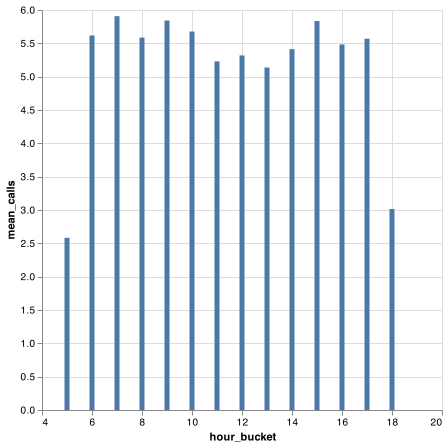
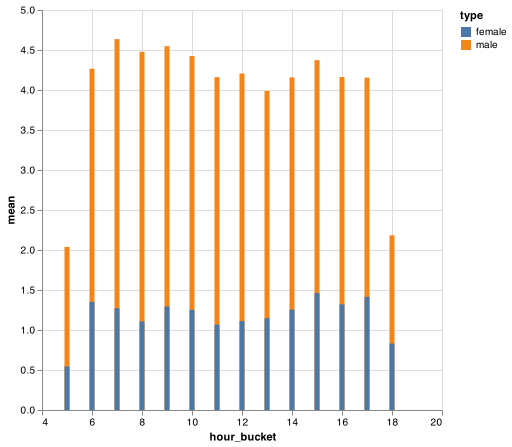
new graphs with male female split

diff --git a/statistics/index.html b/statistics/index.html
@@ -30,7 +30,7 @@
 
 <!-- Content appended here -->
 <div class="franklin-content"><h1 id="aggregate_statistics"><a href="#aggregate_statistics" class="header-anchor">Aggregate Statistics</a></h1>
-<div class="franklin-toc"><ol><li><a href="#aggregate_statistics">Aggregate Statistics</a><ol><li><a href="#audio_recorded">Audio Recorded</a></li><li><a href="#kiwi_calls_found">Kiwi Calls Found</a></li><li><a href="#calls_per_hour">Calls per Hour</a><ol><li><a href="#aggregate_dataset">Aggregate Dataset</a></li><li><a href="#by_time_of_day">By Time of Day</a></li><li><a href="#by_month">By Month</a></li></ol></li><li><a href="#calls_by_location">Calls by Location</a></li></ol></li></ol></div>
+<div class="franklin-toc"><ol><li><a href="#aggregate_statistics">Aggregate Statistics</a><ol><li><a href="#audio_recorded">Audio Recorded</a></li><li><a href="#kiwi_calls_found">Kiwi Calls Found</a></li><li><a href="#calls_by_location">Calls by Location</a></li></ol></li><li><a href="#calls_per_hour">Calls per Hour</a><ol><li><a href="#aggregate_dataset">Aggregate Dataset</a></li><li><a href="#distribution">Distribution</a></li><li><a href="#by_time_of_day">By Time of Day</a></li><li><a href="#by_month">By Month</a></li></ol></li></ol></div>
 <h2 id="audio_recorded"><a href="#audio_recorded" class="header-anchor">Audio Recorded</a></h2>
 
 <table><tr><th align="right">Drive</th><th align="right">SizeTB</th><th align="right">Files</th><th align="right">Hours</th><th align="right">From</th><th align="right">To</th></tr><tr><td align="right">Pomona-1</td><td align="right">2.94</td><td align="right">104839</td><td align="right">26057.2</td><td align="right">28/10/2021</td><td align="right">30/07/2022</td></tr><tr><td align="right">Pomona-2</td><td align="right">2.46</td><td align="right">87741</td><td align="right">21811.2</td><td align="right">26/08/2022</td><td align="right">17/02/2023</td></tr></table>
@@ -39,25 +39,26 @@
 
 <table><tr><th align="right">Call Type</th><th align="right">Number</th></tr><tr><td align="right">Solo Male</td><td align="right">13884</td></tr><tr><td align="right">Solo Female</td><td align="right">2530</td></tr><tr><td align="right">Duets</td><td align="right">2123</td></tr><tr><td align="right">Individual</td><td align="right">20660</td></tr></table>
 
-<h2 id="calls_per_hour"><a href="#calls_per_hour" class="header-anchor">Calls per Hour</a></h2>
-
-<h3 id="aggregate_dataset"><a href="#aggregate_dataset" class="header-anchor">Aggregate Dataset</a></h3>
-<pre><code class="plaintext code-output">Mean: 5.36
-</code></pre>
-<p><img src="/assets/statistics/calls_per_hour_aggregate.png" alt="Calls per Hour" /></p>
-<table><tr><th align="right">variable</th><th align="right">mean</th><th align="right">min</th><th align="right">median</th><th align="right">max</th></tr><tr><td align="right">calls</td><td align="right">5.362055541136777</td><td align="right">0</td><td align="right">4.0</td><td align="right">29</td></tr><tr><td align="right">hour_bucket</td><td align="right">0.0</td><td align="right">2021-10-28T07:00:00.0</td><td align="right">2022-07-07T15:00:00.0</td><td align="right">2023-02-16T12:00:00.0</td></tr></table>
-
-<p><img src="/assets/statistics/calls_per_hour_frequency.png" alt="Calls per Hour" /></p>
-<h3 id="by_time_of_day"><a href="#by_time_of_day" class="header-anchor">By Time of Day</a></h3>
-<p>Hour is UTC, to get to NZ time add 12 or 13 hours. I need to work in UTC because turning the clock back in April causes havoc with my statistics.</p>
-<p><img src="/assets/statistics/calls_per_hour.png" alt="Calls per Hour" /></p>
-<h3 id="by_month"><a href="#by_month" class="header-anchor">By Month</a></h3>
-<p><img src="/assets/statistics/calls_per_hour_by_month.png" alt="Calls per Hour" /></p>
-<p><img src="https://res.cloudinary.com/dofwwje6q/image/upload/v1657134405/Pomona/487DE791-C7FF-4144-81E0-7221B1BAA9AF_gmozib.jpg" alt="Singing Kiwi" /></p>
 <h2 id="calls_by_location"><a href="#calls_by_location" class="header-anchor">Calls by Location</a></h2>
 
 <table><tr><th align="right">Location</th><th align="right">Solo_Male</th><th align="right">Solo_Female</th><th align="right">Duets</th><th align="right">Individual</th><th align="right">False_Positives</th><th align="right">Close</th><th align="right">Low_Noise</th></tr><tr><td align="right">C05</td><td align="right">2675</td><td align="right">452</td><td align="right">356</td><td align="right">3839</td><td align="right">372</td><td align="right">338</td><td align="right">884</td></tr><tr><td align="right">F09</td><td align="right">2356</td><td align="right">324</td><td align="right">388</td><td align="right">3456</td><td align="right">339</td><td align="right">190</td><td align="right">613</td></tr><tr><td align="right">H04</td><td align="right">968</td><td align="right">242</td><td align="right">241</td><td align="right">1692</td><td align="right">405</td><td align="right">219</td><td align="right">393</td></tr><tr><td align="right">D09</td><td align="right">1194</td><td align="right">257</td><td align="right">113</td><td align="right">1677</td><td align="right">283</td><td align="right">154</td><td align="right">370</td></tr><tr><td align="right">N20</td><td align="right">957</td><td align="right">164</td><td align="right">235</td><td align="right">1591</td><td align="right">298</td><td align="right">285</td><td align="right">512</td></tr><tr><td align="right">M04</td><td align="right">702</td><td align="right">342</td><td align="right">167</td><td align="right">1378</td><td align="right">525</td><td align="right">179</td><td align="right">335</td></tr><tr><td align="right">WD05</td><td align="right">729</td><td align="right">18</td><td align="right">43</td><td align="right">833</td><td align="right">190</td><td align="right">112</td><td align="right">259</td></tr><tr><td align="right">D03</td><td align="right">601</td><td align="right">84</td><td align="right">70</td><td align="right">825</td><td align="right">203</td><td align="right">107</td><td align="right">209</td></tr><tr><td align="right">G05</td><td align="right">443</td><td align="right">40</td><td align="right">75</td><td align="right">633</td><td align="right">166</td><td align="right">61</td><td align="right">124</td></tr><tr><td align="right">N14</td><td align="right">312</td><td align="right">77</td><td align="right">77</td><td align="right">543</td><td align="right">173</td><td align="right">52</td><td align="right">131</td></tr><tr><td align="right">WB09</td><td align="right">430</td><td align="right">12</td><td align="right">17</td><td align="right">476</td><td align="right">110</td><td align="right">20</td><td align="right">88</td></tr><tr><td align="right">F05</td><td align="right">383</td><td align="right">10</td><td align="right">12</td><td align="right">417</td><td align="right">108</td><td align="right">16</td><td align="right">57</td></tr><tr><td align="right">B12M</td><td align="right">364</td><td align="right">7</td><td align="right">12</td><td align="right">395</td><td align="right">39</td><td align="right">23</td><td align="right">84</td></tr><tr><td align="right">S13T</td><td align="right">194</td><td align="right">120</td><td align="right">32</td><td align="right">378</td><td align="right">131</td><td align="right">42</td><td align="right">84</td></tr><tr><td align="right">T10</td><td align="right">244</td><td align="right">48</td><td align="right">36</td><td align="right">364</td><td align="right">39</td><td align="right">21</td><td align="right">52</td></tr><tr><td align="right">K09</td><td align="right">160</td><td align="right">84</td><td align="right">23</td><td align="right">290</td><td align="right">354</td><td align="right">29</td><td align="right">63</td></tr><tr><td align="right">H09</td><td align="right">167</td><td align="right">17</td><td align="right">28</td><td align="right">240</td><td align="right">63</td><td align="right">23</td><td align="right">54</td></tr><tr><td align="right">V05</td><td align="right">109</td><td align="right">19</td><td align="right">34</td><td align="right">196</td><td align="right">39</td><td align="right">7</td><td align="right">34</td></tr><tr><td align="right">J11</td><td align="right">107</td><td align="right">18</td><td align="right">20</td><td align="right">165</td><td align="right">73</td><td align="right">50</td><td align="right">73</td></tr><tr><td align="right">E07</td><td align="right">135</td><td align="right">3</td><td align="right">6</td><td align="right">150</td><td align="right">17</td><td align="right">15</td><td align="right">34</td></tr><tr><td align="right">KS06</td><td align="right">72</td><td align="right">37</td><td align="right">18</td><td align="right">145</td><td align="right">98</td><td align="right">32</td><td align="right">42</td></tr><tr><td align="right">CB11</td><td align="right">103</td><td align="right">11</td><td align="right">7</td><td align="right">128</td><td align="right">22</td><td align="right">13</td><td align="right">26</td></tr><tr><td align="right">V23</td><td align="right">59</td><td align="right">34</td><td align="right">14</td><td align="right">121</td><td align="right">273</td><td align="right">23</td><td align="right">28</td></tr><tr><td align="right">M01</td><td align="right">65</td><td align="right">21</td><td align="right">17</td><td align="right">120</td><td align="right">45</td><td align="right">15</td><td align="right">29</td></tr><tr><td align="right">H05</td><td align="right">36</td><td align="right">20</td><td align="right">19</td><td align="right">94</td><td align="right">19</td><td align="right">12</td><td align="right">20</td></tr><tr><td align="right">NB5T</td><td align="right">41</td><td align="right">0</td><td align="right">19</td><td align="right">79</td><td align="right">35</td><td align="right">9</td><td align="right">21</td></tr><tr><td align="right">NB14</td><td align="right">41</td><td align="right">21</td><td align="right">8</td><td align="right">78</td><td align="right">100</td><td align="right">8</td><td align="right">15</td></tr><tr><td align="right">A11</td><td align="right">55</td><td align="right">6</td><td align="right">8</td><td align="right">77</td><td align="right">92</td><td align="right">7</td><td align="right">22</td></tr><tr><td align="right">H07</td><td align="right">26</td><td align="right">12</td><td align="right">12</td><td align="right">62</td><td align="right">46</td><td align="right">1</td><td align="right">8</td></tr><tr><td align="right">M02</td><td align="right">28</td><td align="right">13</td><td align="right">6</td><td align="right">53</td><td align="right">48</td><td align="right">7</td><td align="right">15</td></tr><tr><td align="right">D05</td><td align="right">36</td><td align="right">7</td><td align="right">4</td><td align="right">51</td><td align="right">3</td><td align="right">2</td><td align="right">14</td></tr><tr><td align="right">H15</td><td align="right">21</td><td align="right">3</td><td align="right">4</td><td align="right">32</td><td align="right">51</td><td align="right">3</td><td align="right">9</td></tr><tr><td align="right">C11</td><td align="right">25</td><td align="right">2</td><td align="right">0</td><td align="right">27</td><td align="right">9</td><td align="right">6</td><td align="right">15</td></tr><tr><td align="right">WD07</td><td align="right">16</td><td align="right">0</td><td align="right">1</td><td align="right">18</td><td align="right">18</td><td align="right">2</td><td align="right">7</td></tr><tr><td align="right">M05</td><td align="right">16</td><td align="right">1</td><td align="right">0</td><td align="right">17</td><td align="right">122</td><td align="right">0</td><td align="right">7</td></tr><tr><td align="right">J07</td><td align="right">6</td><td align="right">2</td><td align="right">1</td><td align="right">10</td><td align="right">14</td><td align="right">1</td><td align="right">2</td></tr><tr><td align="right">E04</td><td align="right">4</td><td align="right">0</td><td align="right">0</td><td align="right">4</td><td align="right">3</td><td align="right">0</td><td align="right">3</td></tr><tr><td align="right">C01</td><td align="right">3</td><td align="right">0</td><td align="right">0</td><td align="right">3</td><td align="right">14</td><td align="right">0</td><td align="right">1</td></tr><tr><td align="right">H14</td><td align="right">1</td><td align="right">1</td><td align="right">0</td><td align="right">2</td><td align="right">1</td><td align="right">0</td><td align="right">0</td></tr><tr><td align="right">A01</td><td align="right">0</td><td align="right">1</td><td align="right">0</td><td align="right">1</td><td align="right">7</td><td align="right">0</td><td align="right">0</td></tr><tr><td align="right">B02</td><td align="right">0</td><td align="right">0</td><td align="right">0</td><td align="right">0</td><td align="right">99</td><td align="right"></td><td align="right"></td></tr><tr><td align="right">TOTAL</td><td align="right">13884</td><td align="right">2530</td><td align="right">2123</td><td align="right">20660</td><td align="right">5046</td><td align="right">2084</td><td align="right">4737</td></tr></table>
 
+<h1 id="calls_per_hour"><a href="#calls_per_hour" class="header-anchor">Calls per Hour</a></h1>
+
+<h2 id="aggregate_dataset"><a href="#aggregate_dataset" class="header-anchor">Aggregate Dataset</a></h2>
+<pre><code class="plaintext code-output">Mean: 5.36 calls per hour
+</code></pre>
+<p><img src="/assets/statistics/calls_per_hour_aggregate.png" alt="Calls per Hour" /></p>
+<table><tr><th align="right">variable</th><th align="right">mean</th><th align="right">min</th><th align="right">median</th><th align="right">max</th></tr><tr><td align="right">calls</td><td align="right">5.362055541136777</td><td align="right">0</td><td align="right">4.0</td><td align="right">29</td></tr><tr><td align="right">male</td><td align="right">4.154425123280561</td><td align="right">0</td><td align="right">3.0</td><td align="right">22</td></tr><tr><td align="right">female</td><td align="right">1.2076304178562158</td><td align="right">0</td><td align="right">1.0</td><td align="right">12</td></tr><tr><td align="right">duet</td><td align="right">0.550999221385933</td><td align="right">0</td><td align="right">0.0</td><td align="right">8</td></tr><tr><td align="right">hour_bucket</td><td align="right"></td><td align="right">2021-10-28T07:00:00.0</td><td align="right">2022-07-07T15:00:00.0</td><td align="right">2023-02-16T12:00:00.0</td></tr></table>
+
+<h2 id="distribution"><a href="#distribution" class="header-anchor">Distribution</a></h2>
+<p><img src="/assets/statistics/calls_per_hour_frequency.png" alt="Calls per Hour" /></p>
+<h2 id="by_time_of_day"><a href="#by_time_of_day" class="header-anchor">By Time of Day</a></h2>
+<p>Hour is UTC, to get to NZ time add 12 or 13 hours. I need to work in UTC because turning the clock back in April causes havoc with my statistics.</p>
+<p><img src="/assets/statistics/calls_per_hour.png" alt="Calls per Hour" /></p>
+<h2 id="by_month"><a href="#by_month" class="header-anchor">By Month</a></h2>
+<p><img src="/assets/statistics/calls_per_hour_by_month.png" alt="Calls per Hour" /></p>
+<p><img src="https://res.cloudinary.com/dofwwje6q/image/upload/v1657134405/Pomona/487DE791-C7FF-4144-81E0-7221B1BAA9AF_gmozib.jpg" alt="Singing Kiwi" /></p>
 <div class="page-foot">
     <p>Subscribe to the <a href="https://tinyletter.com/fiordlandpacks">Pomona Kiwi Newsletter</a></br>
     Thanks to the <a  href="https://pomona-island.org.nz">Pomona Island Charitable Trust</a></br>

diff --git a/index.html b/index.html
@@ -31,7 +31,7 @@
 <!-- Content appended here -->
 <div class="franklin-content"><h1></h1>
 <h1 id="pomona_audio_project"><a href="#pomona_audio_project" class="header-anchor">Pomona Audio Project</a></h1>
-<p><div class="franklin-toc"><ol><li><a href="#pomona_audio_project">Pomona Audio Project</a><ol><li><a href="#introduction">Introduction</a></li><li><a href="#workflow">Workflow</a></li><li><a href="#haast_tokoeka_are_endangered">Haast Tokoeka Are Endangered</a></li><li><a href="#current_locations">Current Locations</a></li><li><a href="#past_locations">Past Locations</a></li><li><a href="#statistics">Statistics</a></li><li><a href="#frequently_asked_questions">Frequently Asked Questions</a></li></ol></li></ol></div> </p>
+<p><div class="franklin-toc"><ol><li><a href="#pomona_audio_project">Pomona Audio Project</a><ol><li><a href="#introduction">Introduction</a></li><li><a href="#workflow">Workflow</a></li><li><a href="#haast_tokoeka_are_endangered">Haast Tokoeka Are Endangered</a></li><li><a href="#current_locations">Current Locations</a></li><li><a href="#past_locations">Past Locations</a></li><li><a href="#frequently_asked_questions">Frequently Asked Questions</a></li></ol></li></ol></div> </p>
 <h2 id="introduction"><a href="#introduction" class="header-anchor">Introduction</a></h2>
 <p>Night time audio data is recorded on Pomona Island with up to 18 Audio Moths. Haast Kiwi calls are found and monitored.</p>
 <p><img src="https://res.cloudinary.com/dofwwje6q/image/upload/w_400/v1647156108/Pomona/21D9D0DD-B925-4F46-B952-8FDF436E1FE2_nfqpv6.jpg" alt="Moth in anti-static bag" /></p>
@@ -51,15 +51,6 @@
 
 <pre><code class="plaintext code-output">A01  A11  B02  B12M  C01  C05  C11  CB11  D03  D05  D09  E04  E07  F05  F09  G05  H04  H05  H07  H09  H14  H15  J07  J11  K09  KS06  M01  M02  M04  M05  N14  N20  NB14  NB5T  S13T  T10  V05  V23  WB09  WD05  WD07  </code></pre>
 <p><img src="/assets/index/output/past_locations.png" alt="Past Audio Moth Locations" /></p>
-<h2 id="statistics"><a href="#statistics" class="header-anchor">Statistics</a></h2>
-<ul>
-<li><p>Aggregate statistics</p>
-</li>
-<li><p>Location statistics</p>
-</li>
-<li><p><a href="/old-page">Old Notebook</a>, no longer maintained.</p>
-</li>
-</ul>
 <h2 id="frequently_asked_questions"><a href="#frequently_asked_questions" class="header-anchor">Frequently Asked Questions</a></h2>
 <ul>
 <li><p>How often do Kiwi call?</p>
